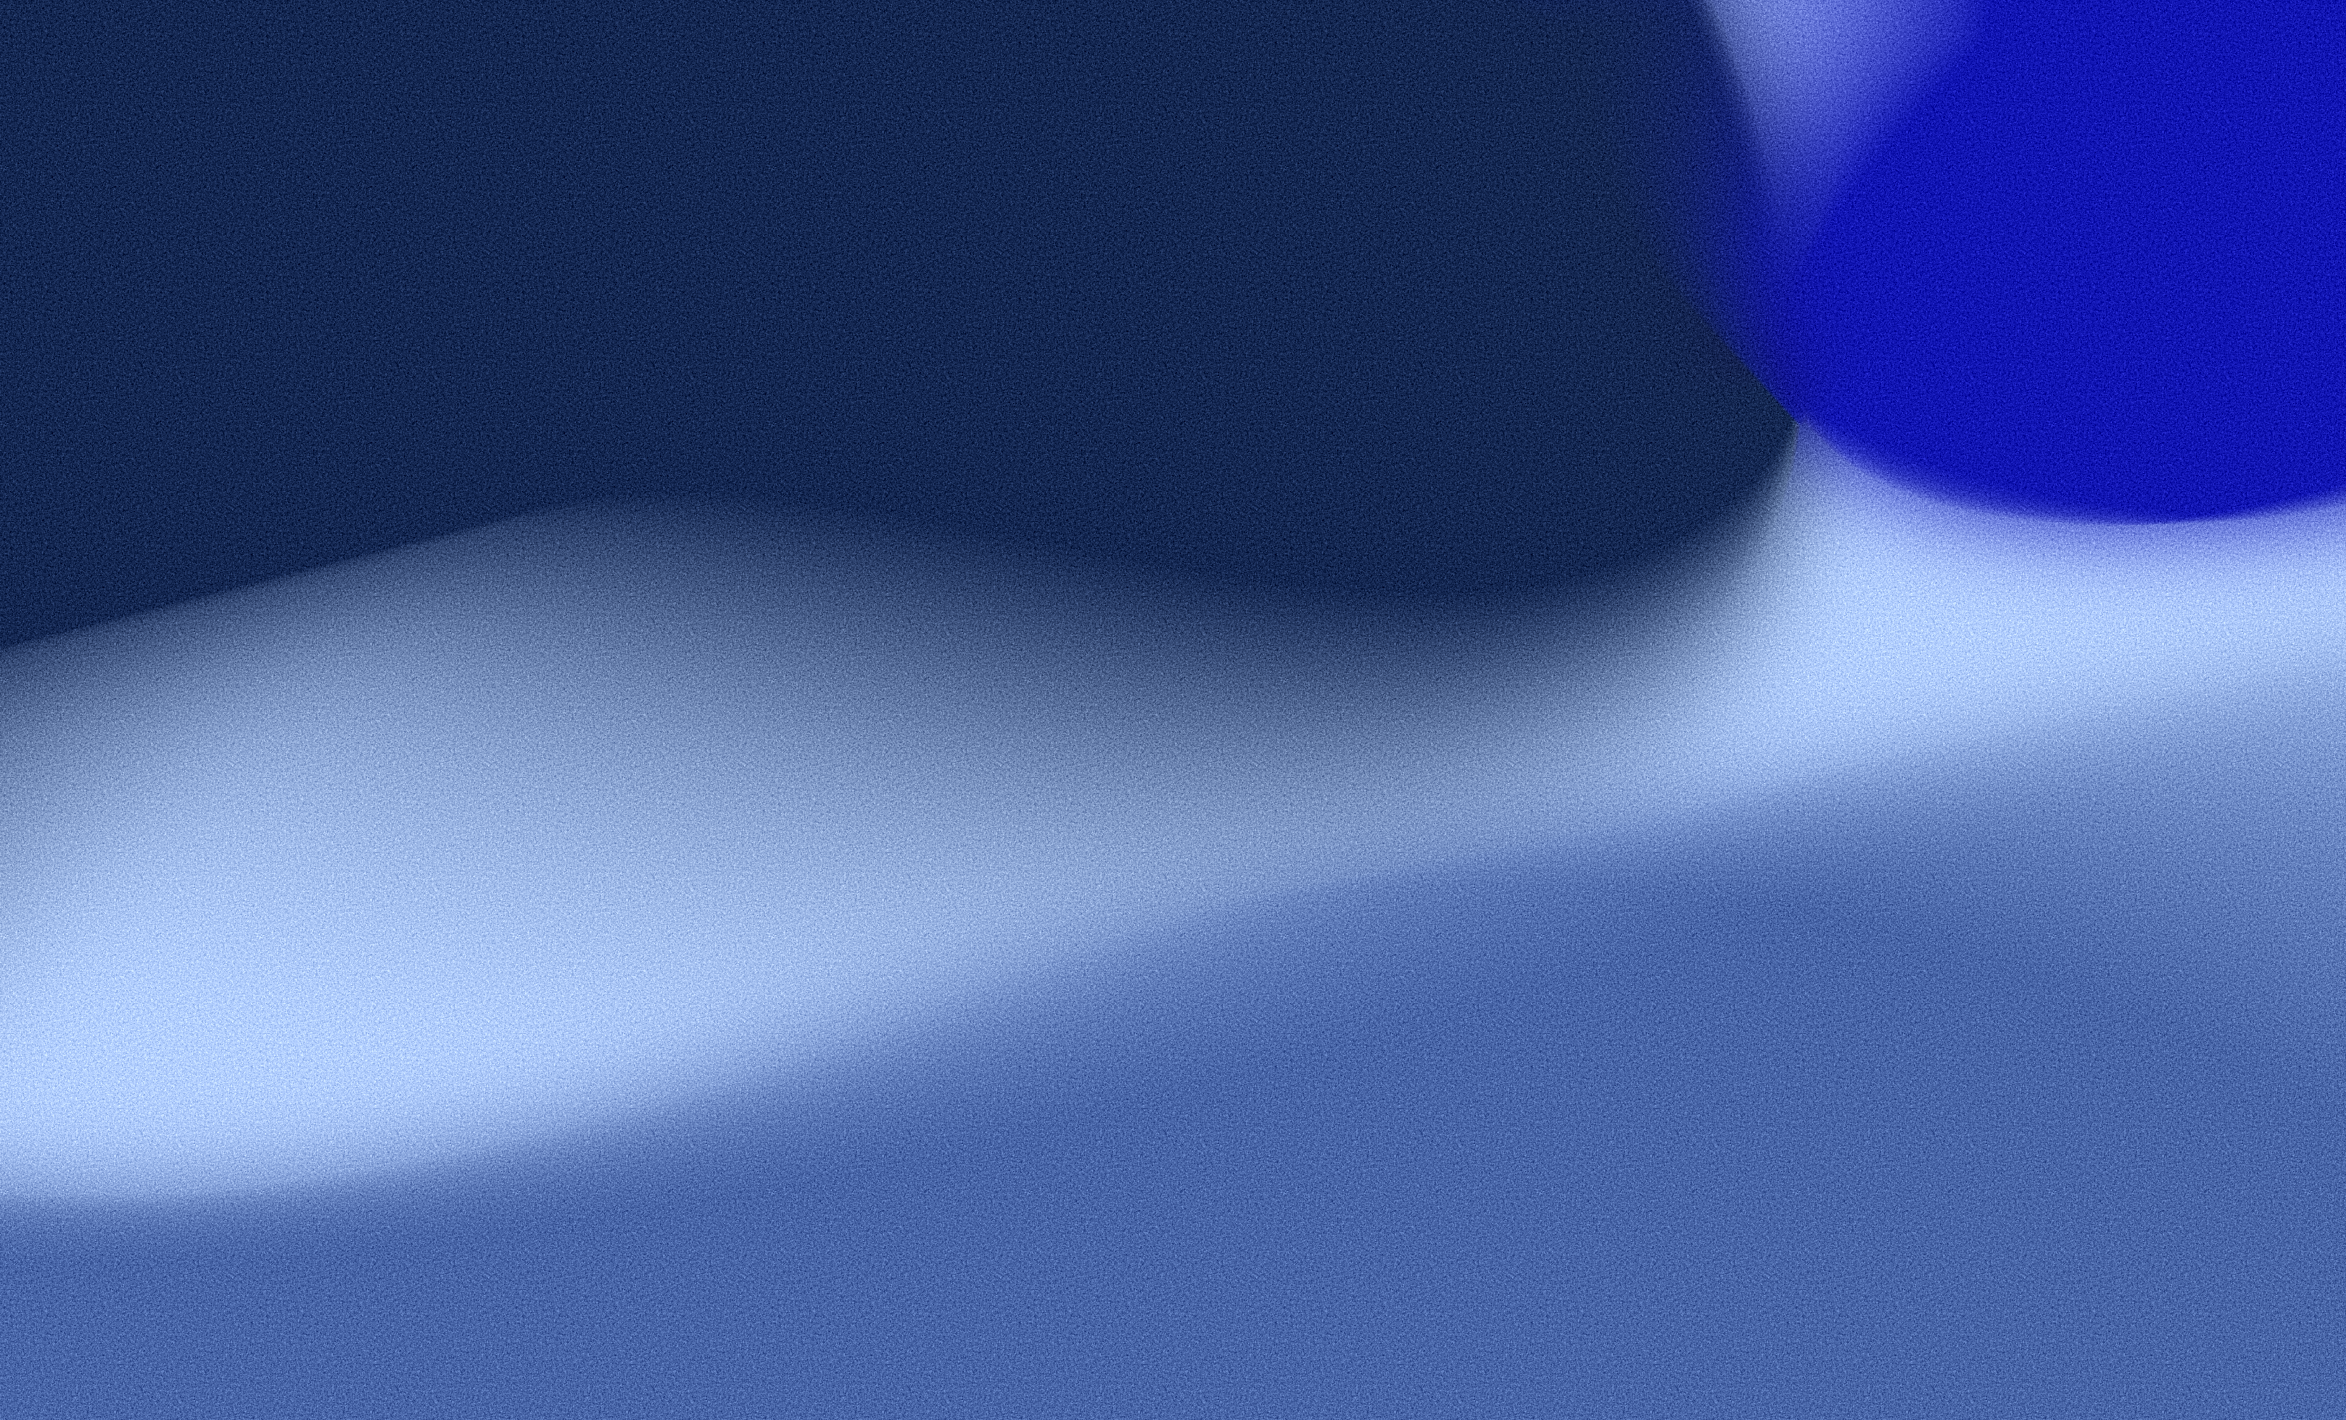
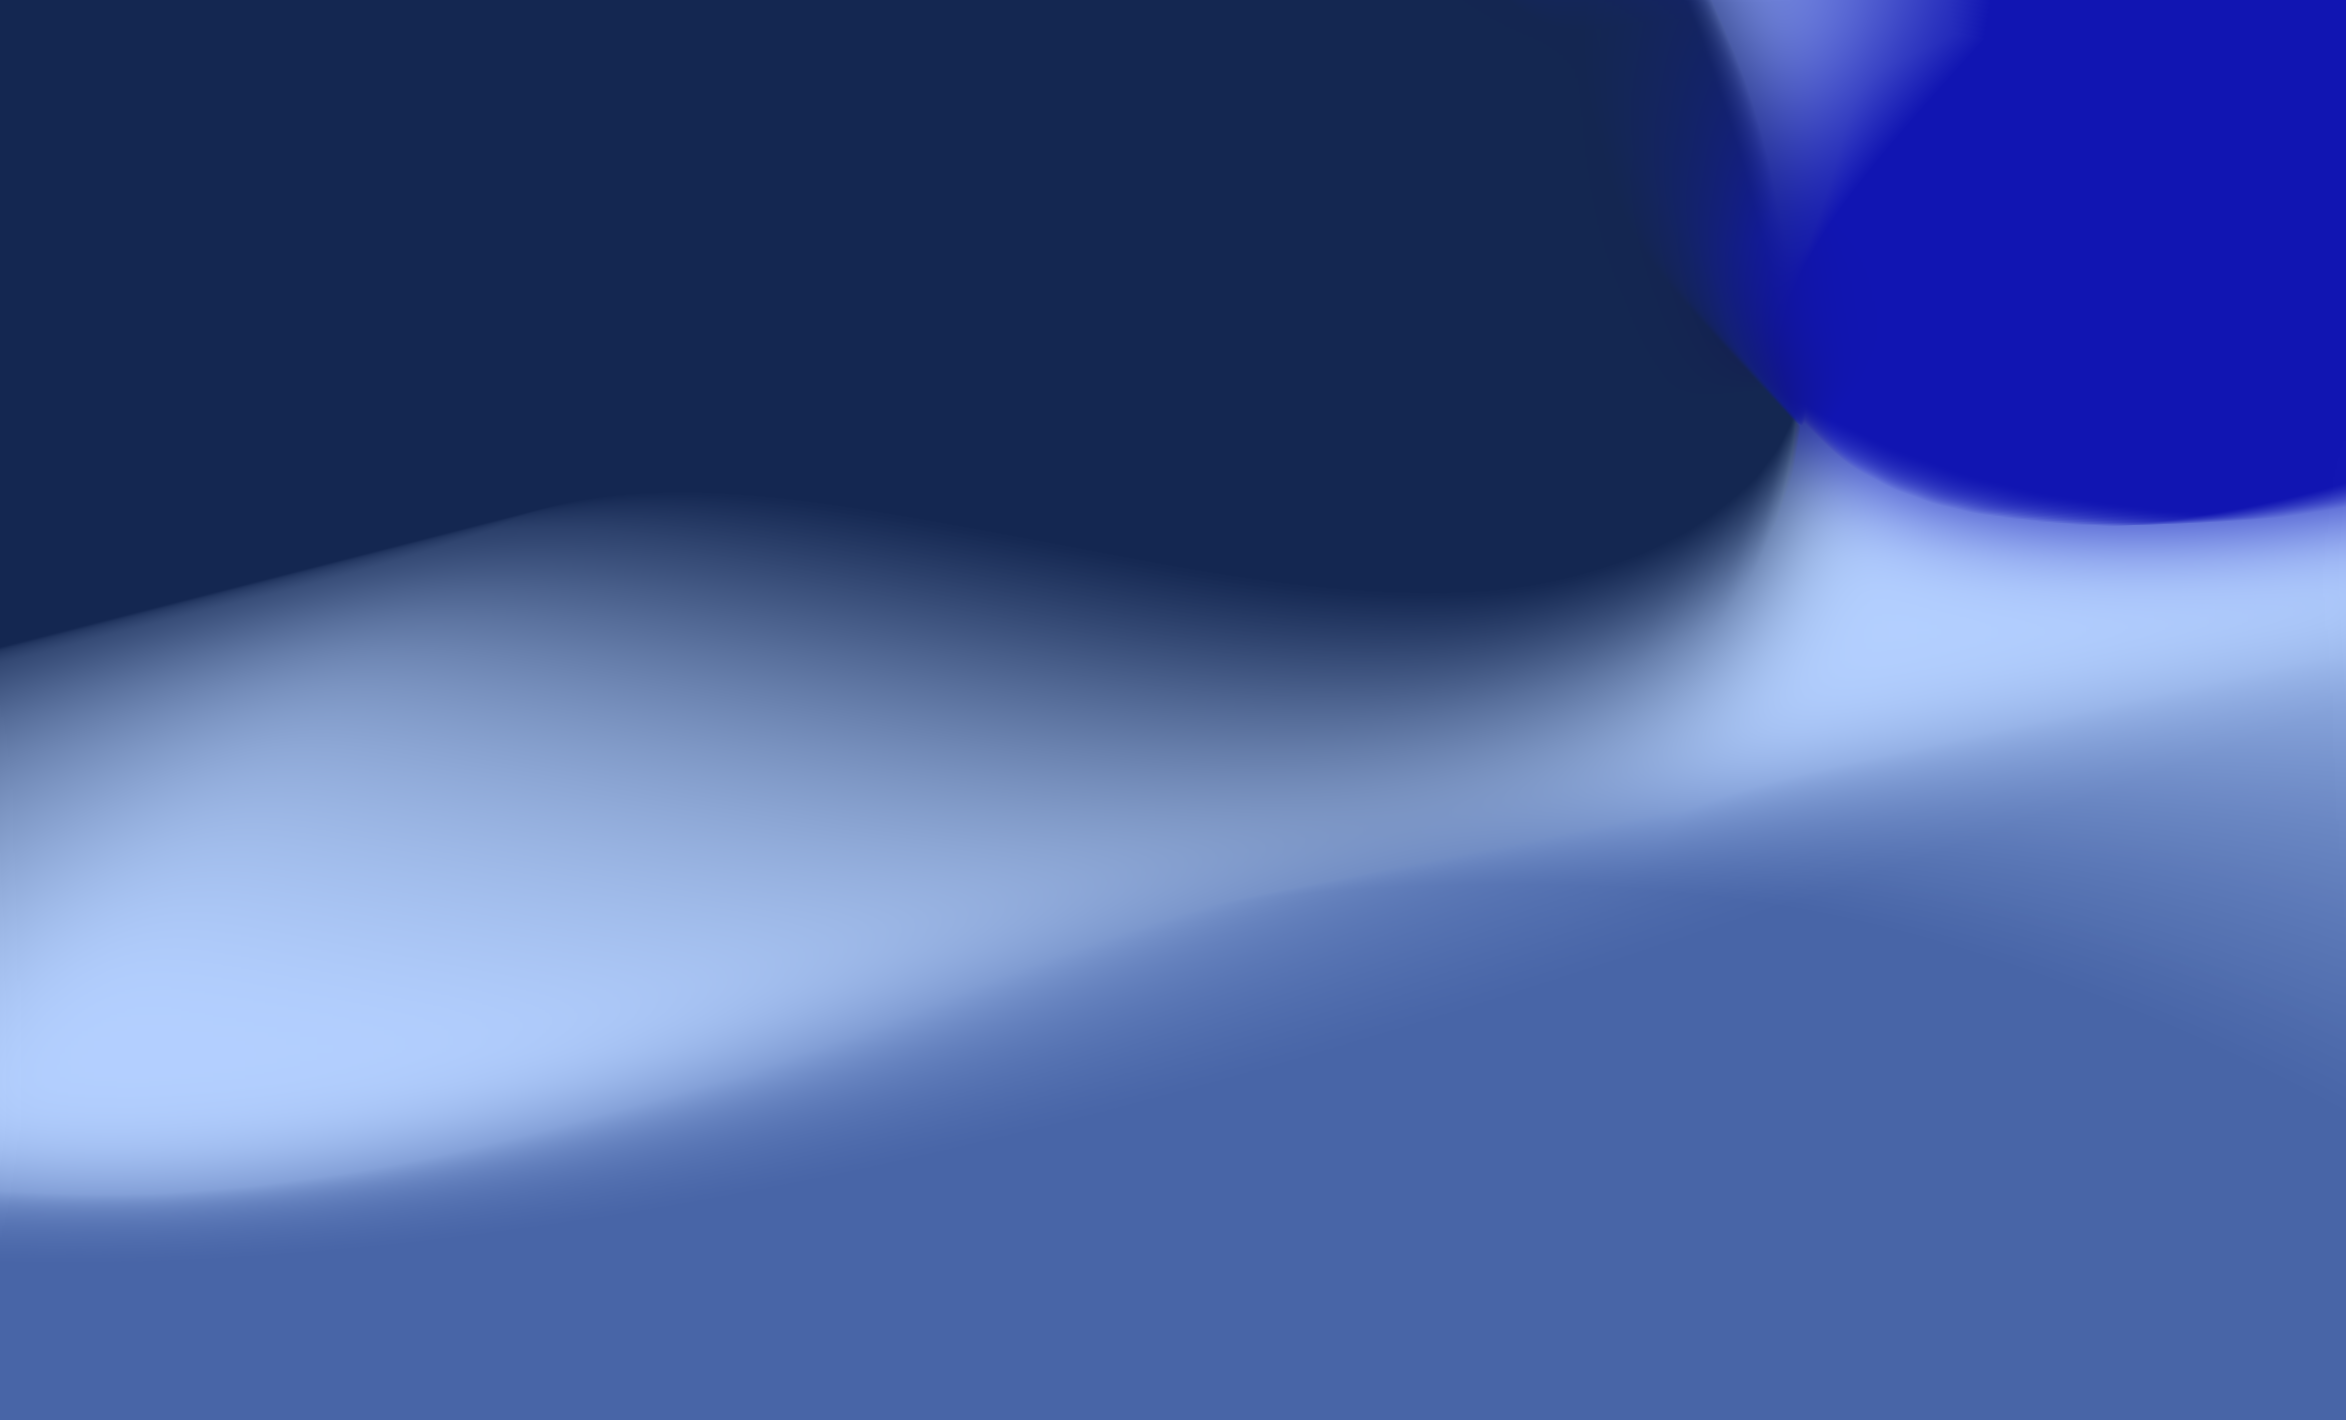
c

diff --git a/index.html b/index.html
@@ -198,7 +198,13 @@
             padding-top: 30px;
             color: #FDF6DC;
             height: 100vh;
+            background-image: url('body-background.png'); /* Add your image path here */
+            background-size: cover; /* Ensures the image covers the entire area */
+            background-position: center; /* Centers the image */
+            background-repeat: no-repeat; /* Prevents the image from repeating */
+            width: 100%; /* Makes sure the width is 100% of the container */
         }
+        
 
     </style>
 </head>
